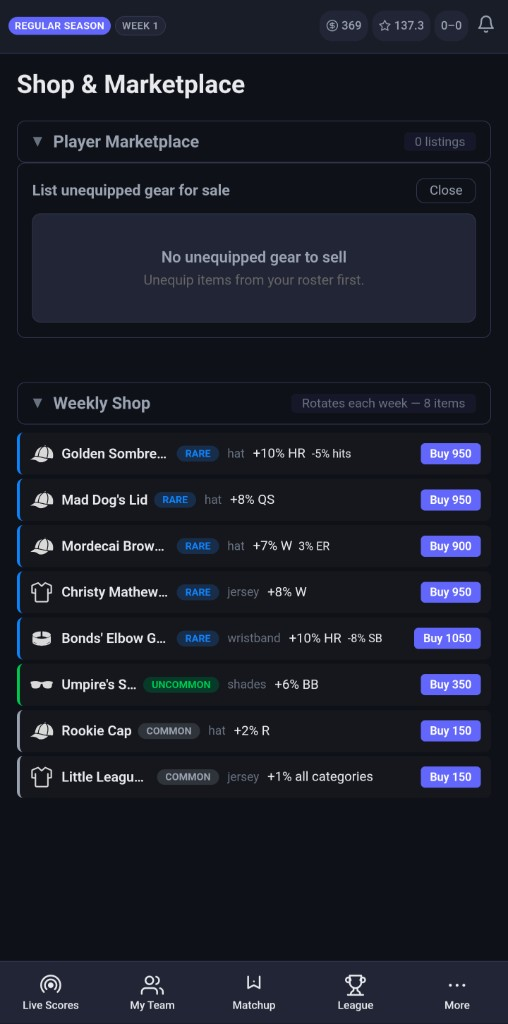
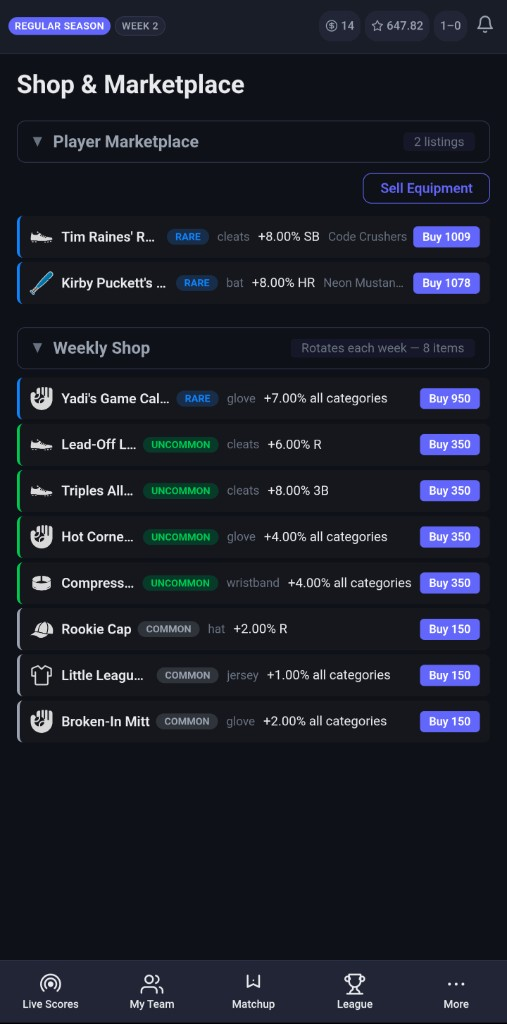
add user profiles, achievement badges, updated shop screenshot
Profile page with avatar uploads, shareable username routes, career
stats, and season badges (champion/runner-up/third/first season).
Updated test count to 837+, added profile screenshot, refreshed
shop screenshot.

diff --git a/README.md b/README.md
@@ -17,7 +17,7 @@ Dugout is a production fantasy baseball platform that combines RPG mechanics, re
 - **Custom ML pipeline** — Marcel baseline → Statcast correction → gradient-boosted quantile models (p10/p50/p90)
 - **Real-time distributed system** — Redis-backed state + SSE for live scoring, draft rooms, and event-driven notifications
 - **Performance engineering** — eliminated 29+ N+1 query paths (93–99% reduction), enabling 15s live updates at scale
-- **Scale signals** — 800+ tests, ~200 gear items, 6 AI archetypes, 39-feature ML models, full production infrastructure
+- **Scale signals** — 837+ tests, ~200 gear items, 6 AI archetypes, 39-feature ML models, full production infrastructure
 
 ### Why this exists
 
@@ -31,13 +31,13 @@ See below for architecture, ML pipeline, and system design.
 
 | My Team | Live Matchup | Equipment | Shop |
 |---------|-------------|-----------|------|
-| ![My Team](screenshots/my-team.png) | ![Matchup](screenshots/matchup-breakdown.png) | ![Equipment](screenshots/equipment.png) | ![Shop](screenshots/shop-detail.png) |
+| ![My Team](screenshots/my-team.png) | ![Matchup](screenshots/matchup-breakdown.png) | ![Equipment](screenshots/equipment.png) | ![Shop](screenshots/shop.png) |
 
-| Research Leaderboard | Free Agents | Player Compare |
-|---------------------|-------------|----------------|
-| ![Leaderboard](screenshots/research-leaderboard.png) | ![Free Agents](screenshots/research-free-agents.png) | ![Compare](screenshots/research-compare.png) |
+| Profile & Badges | Research Leaderboard | Free Agents | Player Compare |
+|-----------------|---------------------|-------------|----------------|
+| ![Profile](screenshots/profile.png) | ![Leaderboard](screenshots/research-leaderboard.png) | ![Free Agents](screenshots/research-free-agents.png) | ![Compare](screenshots/research-compare.png) |
 
-**[View all 27 screenshots →](SCREENSHOTS.md)** — landing, live scores, box scores, matchups, scoring breakdowns, league standings, gear locker, shop, catalogue, waivers, trades, projections, lineup optimizer, research hub, leaderboard, free agents, player compare, player deep-dive, team profiles, notifications, and more.
+**[View all 28 screenshots →](SCREENSHOTS.md)** — landing, live scores, box scores, matchups, scoring breakdowns, league standings, gear locker, shop, catalogue, waivers, trades, projections, lineup optimizer, research hub, leaderboard, free agents, player compare, player deep-dive, team profiles, user profiles, notifications, and more.
 
 ---
 
@@ -61,6 +61,8 @@ Dugout layers **RPG progression** on head-to-head fantasy baseball:
 - **Gear catalogue** tracks collection progress across all ~200 items with challenge conditions and rarity-grouped browsing.
 - **Precision gear display** — every gear card shows the true effective boost after diminishing returns, not raw template values. Two-decimal precision across all surfaces (trophy case, locker, shop, catalogue, detail modals).
 - **Slot occupancy indicators** in the Move Position menu — open slots highlighted green, occupied slots dimmed with the current player's name — so lineup decisions never require scrolling.
+- **User profiles** with avatar upload (2MB max, JPEG/PNG/WebP, content-hash filenames, Docker volume persistence), username-based shareable routes (`/profile/:username`), career stats (all-time W-L, total points, seasons played), and active league cards.
+- **Achievement badges** — auto-awarded at season end (champion, runner-up, third place, first season completed) with SVG icons and gradient theming by badge type. Admin-grantable special badges for milestones. Batch `IN` query for first-season dedup (no N+1).
 - **Transaction export** — downloadable Excel (.xlsx) of all league transactions with league isolation and batch queries.
 - **In-app guide** (10-section How to Play), **FAQ/Trust page**, **contact/status pages**, and **privacy/terms** — all built as first-class React views.
 
@@ -556,7 +558,7 @@ Statcast data feeds into projections (15 hitter / 14 pitcher features), the Rese
 
 ## Testing
 
-**802+ automated tests** (pytest) against SQLite fixtures. Coverage by area:
+**837+ automated tests** (pytest) against SQLite fixtures. Coverage by area:
 
 | Area | Tests | What's covered |
 |------|------:|----------------|
@@ -573,6 +575,7 @@ Statcast data feeds into projections (15 hitter / 14 pitcher features), the Rese
 | **Live scoring** | 30+ | Accrual reconciliation, midnight boundary handling, stat corrections, Statcast enrichment |
 | **Security & hardening** | 20+ | Health endpoint info leakage, error message sanitization, per-user auto-nominate toggle (member-only access, non-member rejection), API response shape validation |
 | **Draft room Redis** | 48 | Serialization round-trips (`from_dict`/`to_redis_dict`) for all draft dataclasses, Redis save/load with mock client, `_fresh_room` fallback hierarchy, distributed lock acquire/release/non-blocking, `get_room` Redis fallback on local cache miss, `create_room`/`destroy_room` Redis lifecycle, mutation save propagation through bid route, **lobby feature** (lobby/ready_members serialization round-trips, backwards-compat for pre-lobby rooms, create_room auto-readies bots, `POST /draft/ready` marks user + rejects after lobby ends, `POST /draft/begin` transitions to active + commissioner-only + force-start, `start_draft` no longer fires nomination) |
+| **User profiles & badges** | 17 | UserBadge model CRUD, profile API (full data return, 404 handling, batch league loading, empty state), avatar upload (valid JPEG, oversized rejection, bad content type, auth required, 404 serve, old avatar cleanup on re-upload), badge awarding (season-end creation, first_season dedup, mode labels), User model new fields |
 | **Other** | 50+ | Auth, balance, matchup scheduling, lineup optimizer, batch projections, waiver hold visibility, transaction export, season point estimator (hitter/pitcher/TWP), integration-style API flows |
 
 ---
@@ -646,6 +649,8 @@ Multi-stage **Dockerfile**: build frontend, copy `dist` into API image; **Gunico
 | **Non-blocking draft won-toast** | Replaced a full-screen "Player won" overlay (blocked the entire draft UI for 1–2s) with a slide-in toast that appears at the top edge and auto-dismisses. Users can continue watching bids, especially on mobile where screen real estate is scarce |
 | **Pitcher designation sub-filter** | Research Hub Leaderboard and Free Agents views surface a secondary pill bar when position = P, filtering by `PitcherRole` (SP/CL/SU/MR/SW). Backend passes `pitcher_role` through to the Redis-cached leaderboard query; frontend conditionally renders the sub-filter row. Reuses the same classification already powering gear restrictions |
 | **Redis connection singleton** | Draft room Redis calls originally created a fresh `redis.from_url()` connection per invocation (25–75ms TCP overhead per bid). Replaced with a module-level `_redis_client` singleton initialized once on first use. Near-zero per-request overhead; bid-to-register latency dropped from ~50ms to <5ms on the Redis path |
+| **User profiles with avatar uploads** | File-based avatar storage on a Docker volume (`/data/avatars`) with content-hash filenames, content-type validation (JPEG/PNG/WebP, 2MB max), and `FileResponse` with `Cache-Control` headers. Username-based routes (`/profile/:username`) make profiles shareable. Old avatars are automatically cleaned up on re-upload to prevent disk growth |
+| **Achievement badge system** | `UserBadge` model with type-based SVG rendering and gradient theming. Badges auto-awarded at season end (champion, runner-up, third, first season) inside the existing `auto_advance_leagues` transaction. First-season dedup uses a batch `IN` query to avoid N+1 across all league participants |
 
 ---
 

diff --git a/SCREENSHOTS.md b/SCREENSHOTS.md
@@ -84,6 +84,14 @@ All screenshots from the live production app (mobile PWA).
 
 ---
 
+## User Profiles & Badges
+
+| Profile (avatar, badges, career stats, leagues) |
+|--------------------------------------------------|
+| ![Profile](screenshots/profile.png) |
+
+---
+
 ## Settings & Info
 
 | Push Notifications | How to Play Guide |
